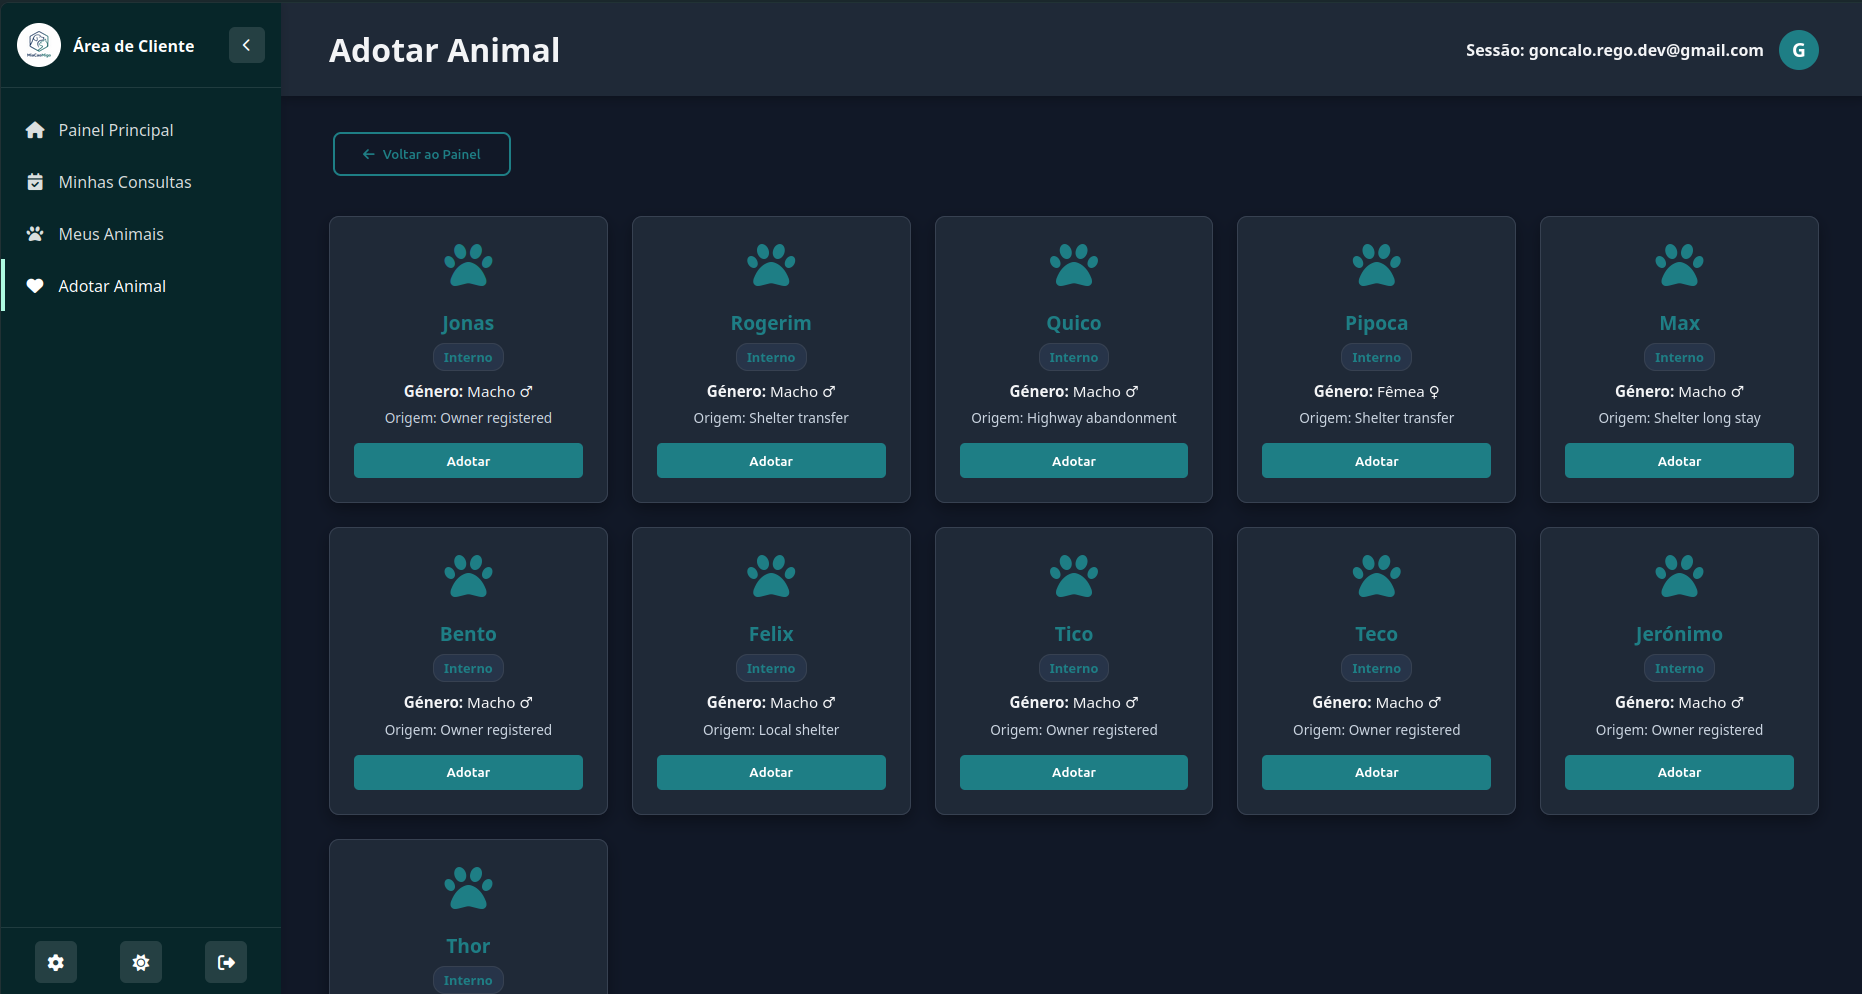
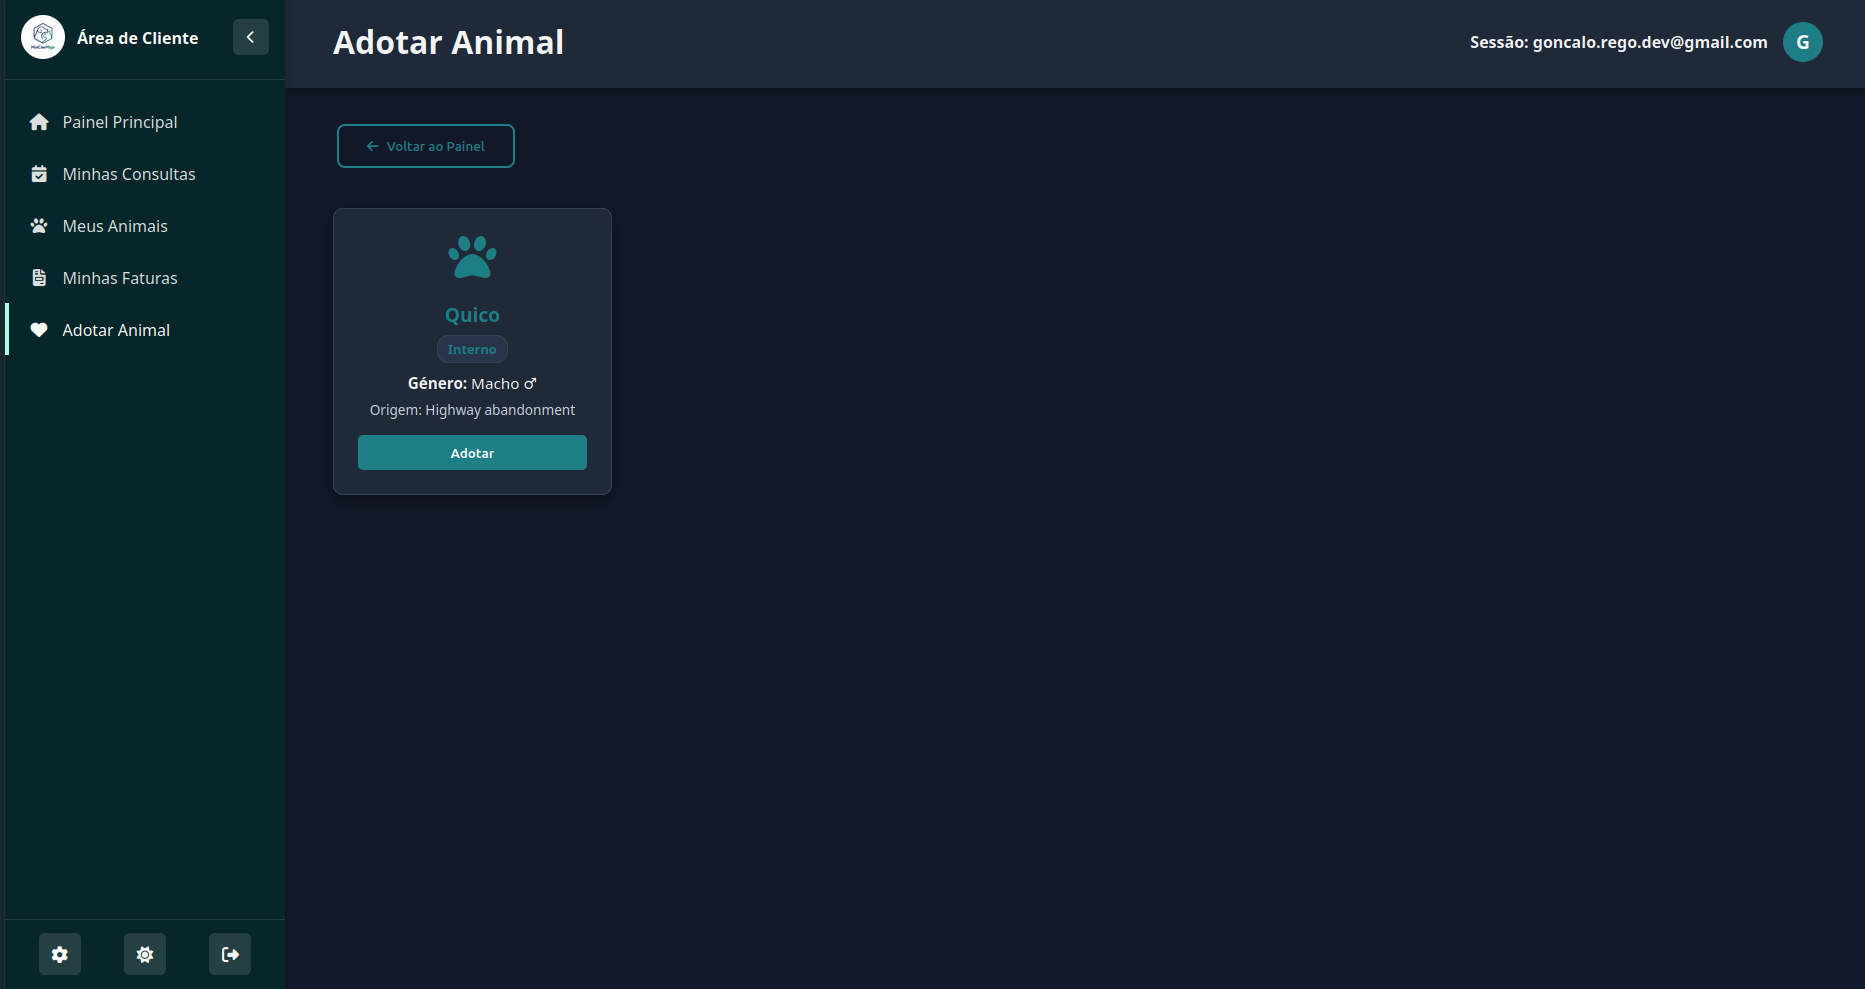
Proof of Implementation

diff --git a/01_Planning/00_Sprints/Sprint_4/Sprint_04.md b/01_Planning/00_Sprints/Sprint_4/Sprint_04.md
@@ -53,7 +53,7 @@ This PDF is the academic deliverable for Sprint 4 and consolidates the final APS
 > **Note:** Use this page as the Sprint 4 entry point, matching the Sprint 1 and Sprint 2 documentation pattern: official deliverable first, then traceability and supporting project artefacts.
 
 
-## Provas de Implementação
+## Proof of Implementation
 
-### Modulo 4
-&rarr; [Provas implementação <-> Mod4](./Mod4.md) &larr;
+### Module 4
+&rarr; [Implementation Proof <-> Mod4](./Mod4.md) &larr;
